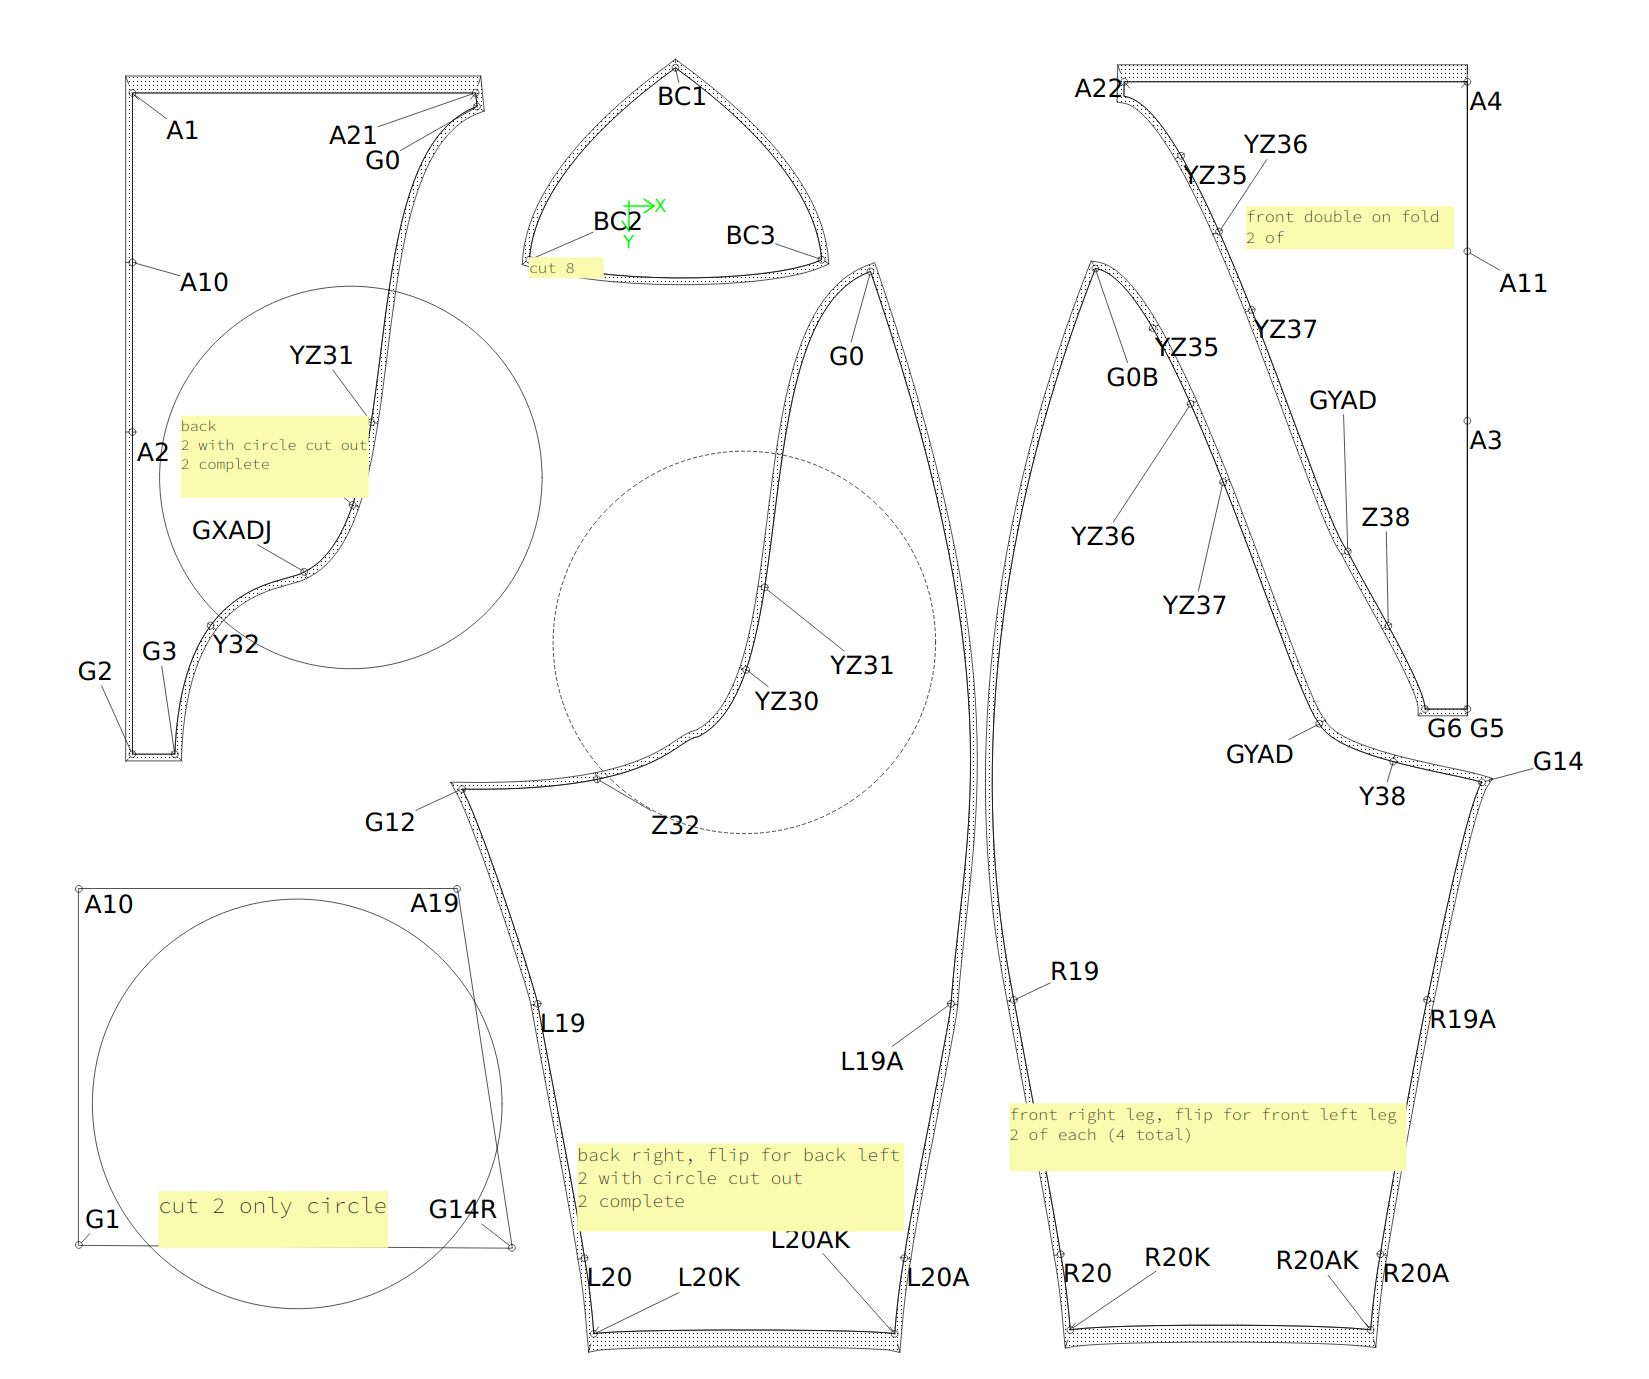
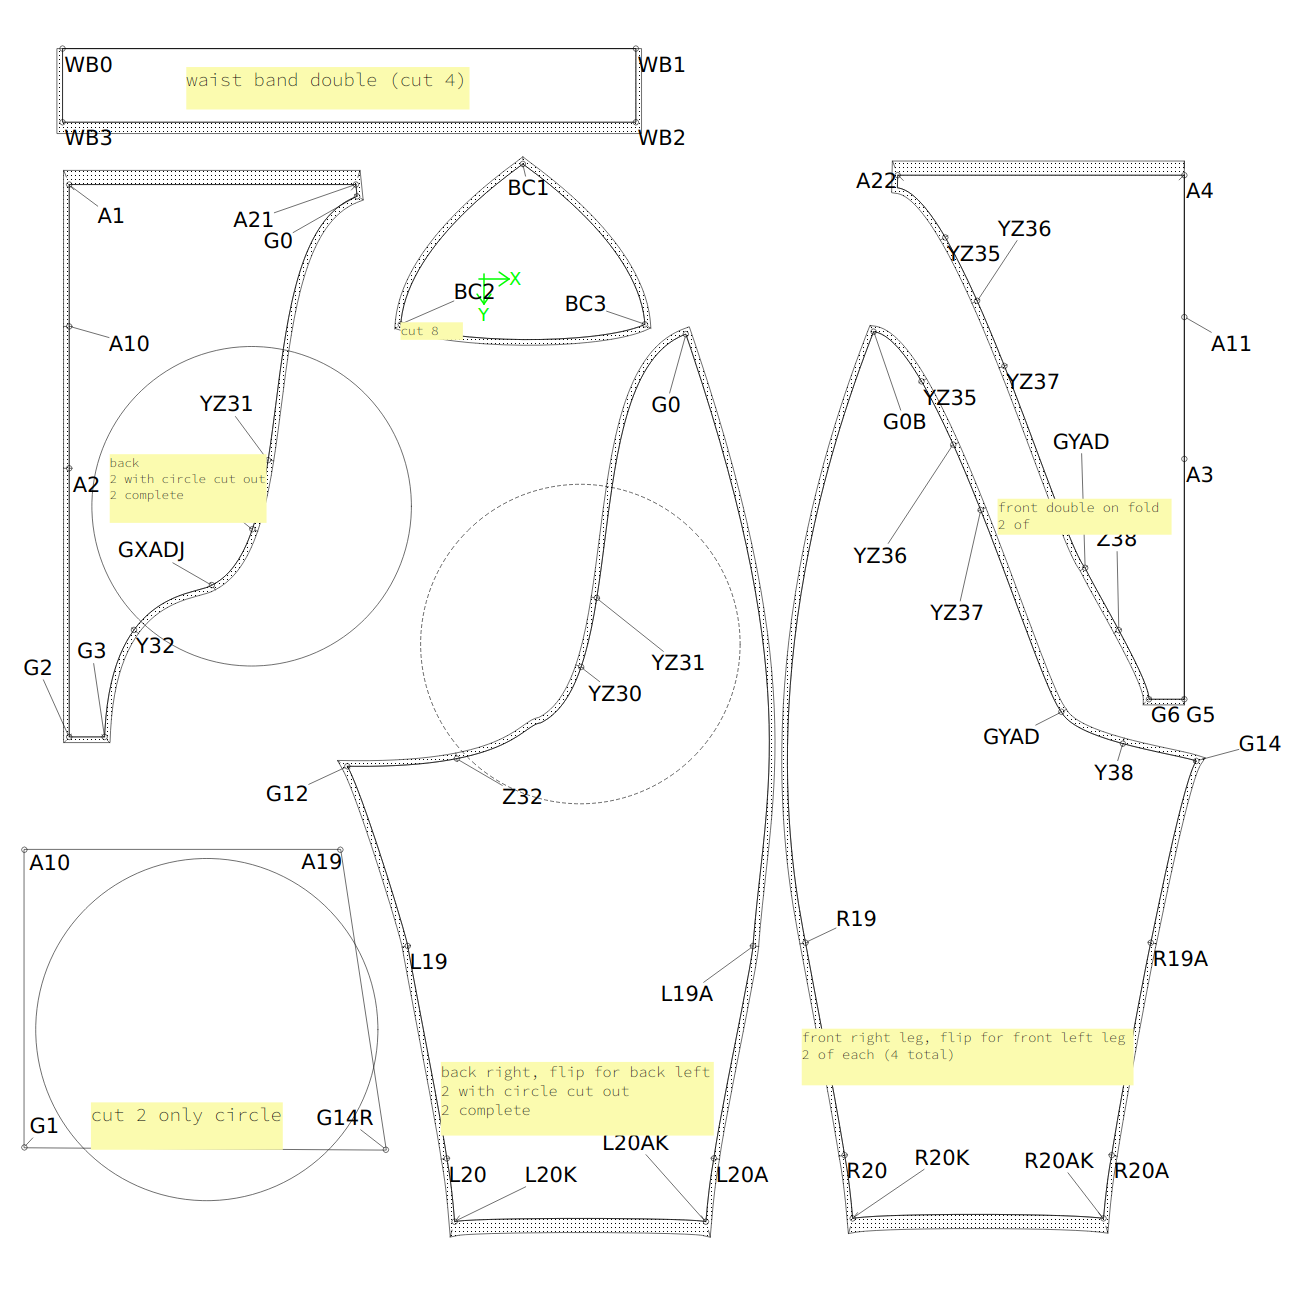
Add waistband in calculate some measurements based on height new screenshots

diff --git a/inflatablehips/03-transfer.md b/inflatablehips/03-transfer.md
@@ -17,8 +17,7 @@ outer layer:
 * front right leg part, two of these, flip and do two more for front left leg
 * back centre piece one of these normal, one fipped
 * back leg piece one of these normal, one flipped
-* waist band sections. I made four of these and laminated them so the band was a total of 1mm thick. These are not in the pattern but
-really could be. Just remember to cut some 60mm by your reduced waist length strips.
+* waist band sections. I made four of these and laminated each pair of them so the band was a total of 1mm thick. 
 
 inner layer:
 * eight segments of butt cups (4 per butt cup)

diff --git a/inflatablehips/02-pattern.md b/inflatablehips/02-pattern.md
@@ -110,8 +110,6 @@ alignment marks, it'll help transfer them to the pattern. I use this
 device which creates nice alignment notches:
 https://www.amazon.co.uk/Professional-Garment-Pattern-Stainless-Designer/dp/B07FKQNMWM/
 
-The pattern is missing a waistband, it's just a rectangle.
-
 This step always takes much longer than you expect.
 
 Now on to part 3: transfer pattern and cut the latex: https://github.com/kigyui/latexpatterns/blob/master/inflatablehips/03-transfer.md
